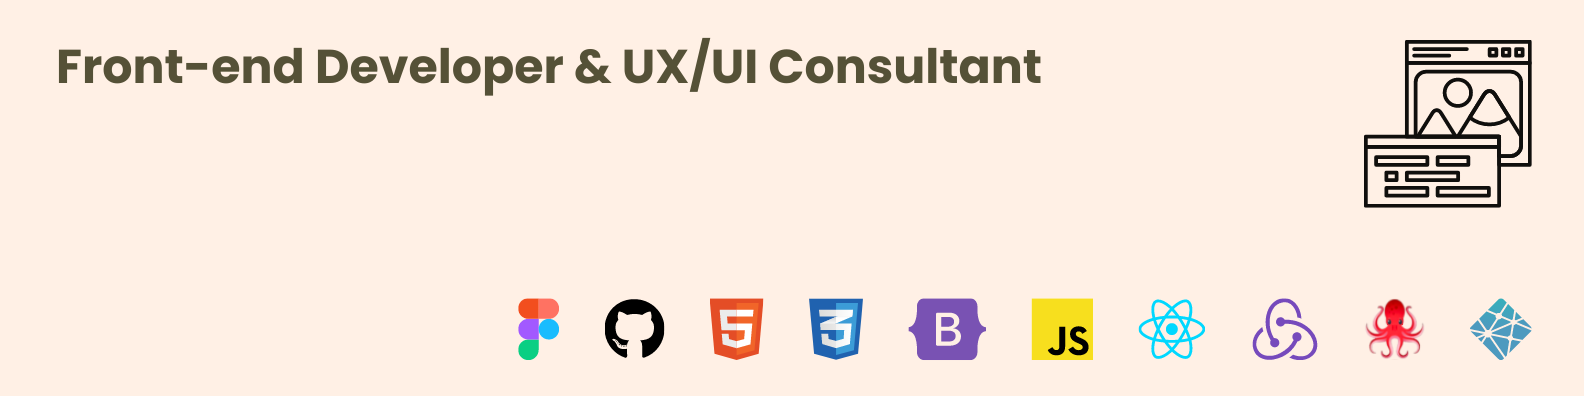
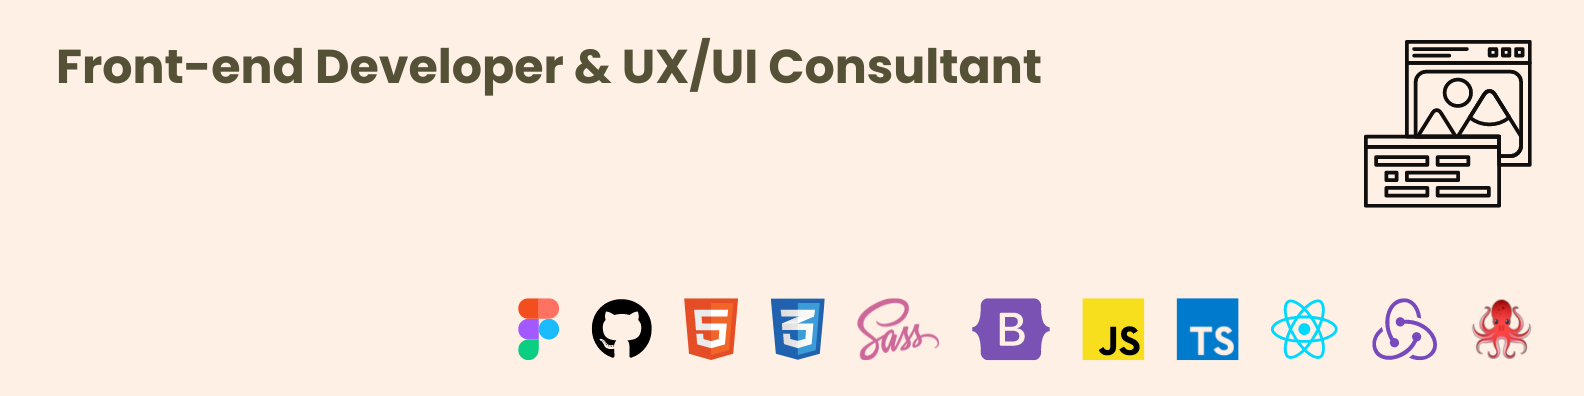
add sass-SCSS

Changed region(s): [[0.3712, 0.7273, 0.9899, 0.9091]]

diff --git a/index.html b/index.html
@@ -184,15 +184,6 @@ height="0" width="0" style="display:none;visibility:hidden"></iframe></noscript>
           </div>
           <!-- skill end  -->
 
-          <!-- Figma skill -->
-          <div class="skill-item" id="figma">
-            <img src="/images/skills/figma.jpg" class="card-img-top" alt="Figma icon" />
-            <div class="card-body">
-              <p class="skill-text">Figma</p>
-            </div>
-          </div>
-          <!-- skill end -->
-
           <!-- HTML skill -->
           <div class="skill-item" id="html">
             <img src="/images/skills/html.jpg" class="card-img-top" alt="HTML 5 icon" />
@@ -207,6 +198,15 @@ height="0" width="0" style="display:none;visibility:hidden"></iframe></noscript>
             <img src="/images/skills/css.jpg" class="card-img-top" alt="CSS 3 icon" />
             <div class="card-body">
               <p class="skill-text">CSS 3</p>
+            </div>
+          </div>
+          <!-- skill end -->
+
+          <!-- Sass (SCSS) skill -->
+          <div class="skill-item" id="sass-scss">
+            <img src="/images/skills/sass-scss.jpg" class="card-img-top" alt="Sass (SCSS) icon" />
+            <div class="card-body">
+              <p class="skill-text">Sass (SCSS)</p>
             </div>
           </div>
           <!-- skill end -->
@@ -237,15 +237,24 @@ height="0" width="0" style="display:none;visibility:hidden"></iframe></noscript>
           </div>
           <!-- skill end -->
 
-          <!-- Python skill -->
-          <div class="skill-item" id="python">
+           <!-- TypeScript skill -->
+           <div class="skill-item" id="typescript">
             <img
-              src="/images/skills/python.jpg"
+              src="/images/skills/typescript.jpg"
               class="card-img-top"
-              alt="Python icon"
+              alt="TypeScript icon"
             />
             <div class="card-body">
-              <p class="skill-text">Python 3</p>
+              <p class="skill-text">TypeScript</p>
+            </div>
+          </div>
+          <!-- skill end -->
+
+           <!-- Figma skill -->
+           <div class="skill-item" id="figma">
+            <img src="/images/skills/figma.jpg" class="card-img-top" alt="Figma icon" />
+            <div class="card-body">
+              <p class="skill-text">Figma</p>
             </div>
           </div>
           <!-- skill end -->
@@ -255,19 +264,6 @@ height="0" width="0" style="display:none;visibility:hidden"></iframe></noscript>
             <img src="/images/skills/react.jpg" class="card-img-top" alt="React icon" />
             <div class="card-body">
               <p class="skill-text">React</p>
-            </div>
-          </div>
-          <!-- skill end -->
-
-          <!-- React Router skill -->
-          <div class="skill-item" id="react-router">
-            <img
-              src="/images/skills/react_router.jpg"
-              class="card-img-top"
-              alt="React Router icon"
-            />
-            <div class="card-body">
-              <p class="skill-text">React Router</p>
             </div>
           </div>
           <!-- skill end -->
@@ -325,15 +321,15 @@ height="0" width="0" style="display:none;visibility:hidden"></iframe></noscript>
           </div>
           <!-- skill end -->
 
-          <!-- pytest skill -->
-          <div class="skill-item hide" id="pytest">
+          <!-- React Router skill -->
+          <div class="skill-item hide" id="react-router">
             <img
-              src="/images/skills/pytest.jpg"
+              src="/images/skills/react_router.jpg"
               class="card-img-top"
-              alt="pytest icon"
+              alt="React Router icon"
             />
             <div class="card-body">
-              <p class="skill-text">pytest</p>
+              <p class="skill-text">React Router</p>
             </div>
           </div>
           <!-- skill end -->
@@ -425,6 +421,19 @@ height="0" width="0" style="display:none;visibility:hidden"></iframe></noscript>
           </div>
           <!-- skill end -->
 
+          <!-- Python skill -->
+          <div class="skill-item hide" id="python">
+            <img
+              src="/images/skills/python.jpg"
+              class="card-img-top"
+              alt="Python icon"
+            />
+            <div class="card-body">
+              <p class="skill-text">Python 3</p>
+            </div>
+          </div>
+          <!-- skill end -->
+
           <!-- Flask skill -->
           <div class="skill-item hide" id="flask">
             <img src="/images/skills/flask.jpg" class="card-img-top" alt="Flask icon" />
@@ -443,6 +452,20 @@ height="0" width="0" style="display:none;visibility:hidden"></iframe></noscript>
             />
             <div class="card-body">
               <p class="skill-text">django</p>
+            </div>
+          </div>
+          <!-- skill end -->
+
+
+          <!-- pytest skill -->
+          <div class="skill-item hide" id="pytest">
+            <img
+              src="/images/skills/pytest.jpg"
+              class="card-img-top"
+              alt="pytest icon"
+            />
+            <div class="card-body">
+              <p class="skill-text">pytest</p>
             </div>
           </div>
           <!-- skill end -->

diff --git a/index.js b/index.js
@@ -1,11 +1,10 @@
-window.location.reload();
-
 // Skills Button
 
 // desktop
 document
   .getElementById("skills-view-more-desktop-btn")
   .addEventListener("click", () => {
+    document.getElementById("react-router").classList.remove("hide");
     document.getElementById("pytest").classList.remove("hide");
     document.getElementById("json-web-token").classList.remove("hide");
     document.getElementById("bcrypt").classList.remove("hide");
@@ -14,6 +13,7 @@ document
     document.getElementById("postgresql").classList.remove("hide");
     document.getElementById("mongodb").classList.remove("hide");
     document.getElementById("docker").classList.remove("hide");
+    document.getElementById("python").classList.remove("hide");
     document.getElementById("flask").classList.remove("hide");
     document.getElementById("django").classList.remove("hide");
     document.getElementById("jupyter").classList.remove("hide");
@@ -30,6 +30,7 @@ document
 document
   .getElementById("skills-view-less-desktop-btn")
   .addEventListener("click", () => {
+    document.getElementById("react-router").classList.add("hide");
     document.getElementById("pytest").classList.add("hide");
     document.getElementById("json-web-token").classList.add("hide");
     document.getElementById("bcrypt").classList.add("hide");
@@ -38,6 +39,7 @@ document
     document.getElementById("postgresql").classList.add("hide");
     document.getElementById("mongodb").classList.add("hide");
     document.getElementById("docker").classList.add("hide");
+    document.getElementById("python").classList.add("hide");
     document.getElementById("flask").classList.add("hide");
     document.getElementById("django").classList.add("hide");
     document.getElementById("jupyter").classList.add("hide");
@@ -56,6 +58,7 @@ document
 document
   .getElementById("skills-view-more-mobile-btn")
   .addEventListener("click", () => {
+    document.getElementById("react-router").classList.remove("hide");
     document.getElementById("pytest").classList.remove("hide");
     document.getElementById("json-web-token").classList.remove("hide");
     document.getElementById("bcrypt").classList.remove("hide");
@@ -64,6 +67,7 @@ document
     document.getElementById("postgresql").classList.remove("hide");
     document.getElementById("mongodb").classList.remove("hide");
     document.getElementById("docker").classList.remove("hide");
+    document.getElementById("python").classList.remove("hide");
     document.getElementById("flask").classList.remove("hide");
     document.getElementById("django").classList.remove("hide");
     document.getElementById("jupyter").classList.remove("hide");
@@ -81,6 +85,7 @@ document
 document
   .getElementById("skills-view-less-mobile-btn")
   .addEventListener("click", () => {
+    document.getElementById("react-router").classList.add("hide");
     document.getElementById("pytest").classList.add("hide");
     document.getElementById("json-web-token").classList.add("hide");
     document.getElementById("bcrypt").classList.add("hide");
@@ -89,6 +94,7 @@ document
     document.getElementById("postgresql").classList.add("hide");
     document.getElementById("mongodb").classList.add("hide");
     document.getElementById("docker").classList.add("hide");
+    document.getElementById("python").classList.add("hide");
     document.getElementById("flask").classList.add("hide");
     document.getElementById("django").classList.add("hide");
     document.getElementById("jupyter").classList.add("hide");
